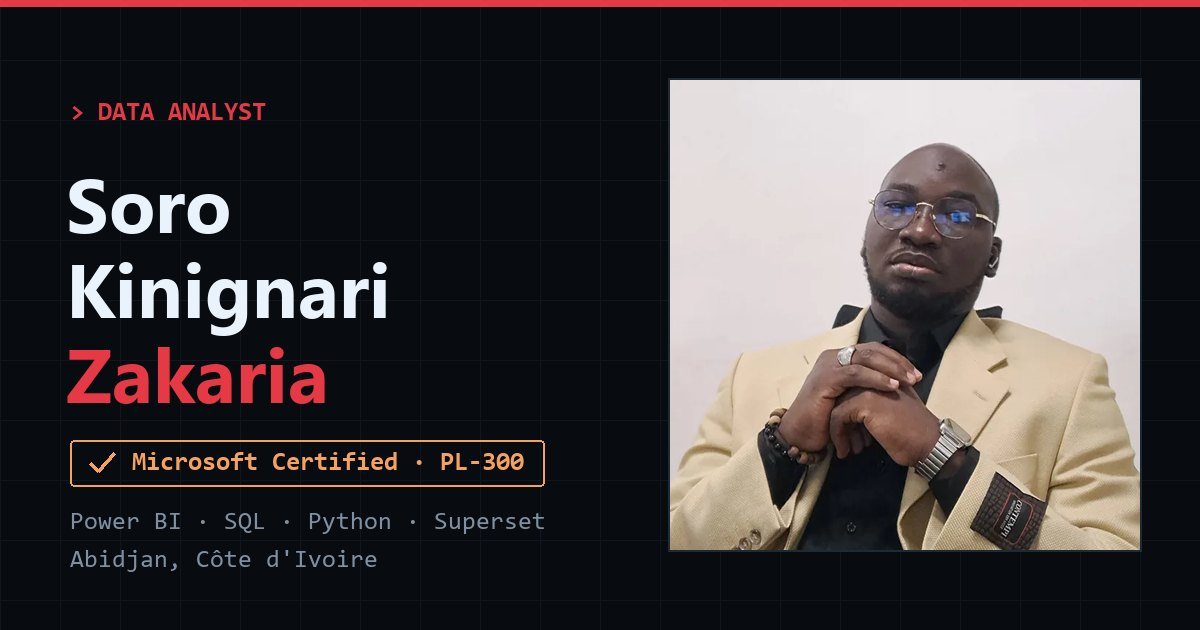
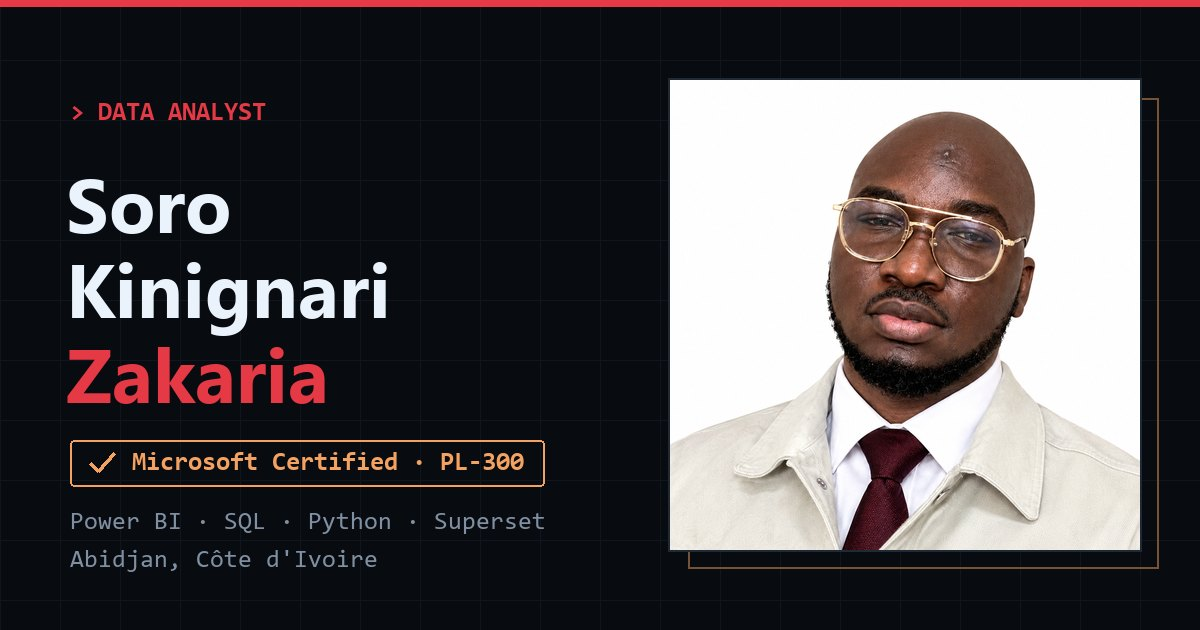
Nouveau portrait et refonte du bloc photo, retrait du lien GitHub
- Nouvelle photo professionnelle (WebP 720 px + 480 px pour mobile)
- Bloc photo repense : portrait 3:4, cadre dore decale, trame de points,
  cartes facon tableau de bord (stack data, poste actuel) a la place des emojis
- Sur tablette et mobile, les cartes se rangent a cote du portrait
- Image de partage mise a jour avec le nouveau portrait
- Lien GitHub retire (contact + JSON-LD)

Changed region(s): [[0.555, 0.1206, 0.9558, 0.9048]]

diff --git a/index.html b/index.html
@@ -56,7 +56,7 @@
     "address": { "@type": "PostalAddress", "addressLocality": "Abidjan", "addressCountry": "CI" },
     "email": "mailto:sorokinignari@gmail.com",
     "knowsAbout": ["Data Analysis", "Power BI", "Apache Superset", "SQL", "Python", "R", "Excel", "DBT", "Dagster", "Économie du développement"],
-    "sameAs": ["https://www.linkedin.com/in/kinignari-zakaria-soro-652789212/", "https://github.com/sparozak"]
+    "sameAs": ["https://www.linkedin.com/in/kinignari-zakaria-soro-652789212/"]
   }
   </script>
 
@@ -319,81 +319,149 @@
       max-width: 620px;
     }
 
-    /* ─── HERO PHOTO ─── */
-    .hero-photo-wrapper {
+    /* ─── HERO : PORTRAIT ─── */
+    .hero-visual {
       position: relative;
       z-index: 2;
       flex-shrink: 0;
-      width: 280px;
-      height: 280px;
+      width: 340px;
+      margin-right: 3rem;
       animation: fadeUp 0.8s 0.4s ease both;
     }
 
-    .hero-photo-wrapper svg.orbit-ring {
+    .hero-figure { position: relative; }
+
+    /* trame de points dorés derrière le portrait */
+    .hero-figure::before {
+      content: '';
       position: absolute;
-      inset: -28px;
-      width: calc(100% + 56px);
-      height: calc(100% + 56px);
-      animation: spin 18s linear infinite;
-      pointer-events: none;
+      top: -36px; left: -36px;
+      width: 160px; height: 160px;
+      background-image: radial-gradient(rgba(244, 162, 97, 0.5) 1.2px, transparent 1.6px);
+      background-size: 14px 14px;
+      mask-image: linear-gradient(135deg, #000 25%, transparent 80%);
+      -webkit-mask-image: linear-gradient(135deg, #000 25%, transparent 80%);
+      z-index: -1;
     }
 
-    .hero-photo-wrapper svg.orbit-ring-2 {
+    /* cadre doré décalé */
+    .hero-figure::after {
+      content: '';
       position: absolute;
-      inset: -14px;
-      width: calc(100% + 28px);
-      height: calc(100% + 28px);
-      animation: spin-rev 28s linear infinite;
-      pointer-events: none;
-      opacity: 0.5;
+      inset: 18px -18px -18px 18px;
+      border: 1px solid rgba(244, 162, 97, 0.5);
+      border-radius: 14px;
+      z-index: -1;
     }
 
-    @keyframes spin { from { transform: rotate(0deg); } to { transform: rotate(360deg); } }
-    @keyframes spin-rev { from { transform: rotate(0deg); } to { transform: rotate(-360deg); } }
-
-    .data-float {
-      position: absolute;
-      display: flex;
-      align-items: center;
-      justify-content: center;
-      width: 38px; height: 38px;
-      background: var(--bg3);
-      border: 1px solid var(--border);
-      border-radius: 6px;
-      font-size: 1.1rem;
-      z-index: 3;
-      pointer-events: none;
-      animation: floatIcon 3s ease-in-out infinite;
-    }
-
-    .data-float:nth-child(1) { top: -18px;    left: 30%;    animation-delay: 0s; }
-    .data-float:nth-child(2) { top: 30%;      right: -18px; animation-delay: 0.6s; }
-    .data-float:nth-child(3) { bottom: -18px; left: 50%;    animation-delay: 1.1s; }
-    .data-float:nth-child(4) { top: 60%;      left: -18px;  animation-delay: 1.7s; }
-    .data-float:nth-child(5) { top: 8%;       right: 10%;   animation-delay: 0.3s; }
-    .data-float:nth-child(6) { bottom: 12%;   right: 5%;    animation-delay: 2s; }
-
-    @keyframes floatIcon {
-      0%, 100% { transform: translateY(0px); }
-      50%       { transform: translateY(-7px); }
-    }
-
-    .hero-photo-frame {
-      width: 100%;
-      height: 100%;
-      border-radius: 8px;
-      overflow: hidden;
-      border: 2px solid var(--border);
+    .hero-portrait {
       position: relative;
-      z-index: 2;
-      background: var(--bg3);
+      aspect-ratio: 3 / 4;
+      border-radius: 14px;
+      overflow: hidden;
+      background: #f2f2f0;
+      box-shadow: 0 0 0 1px var(--border), 0 40px 80px -30px rgba(0, 0, 0, 0.85);
     }
 
-    .hero-photo-frame img {
+    .hero-portrait img {
       width: 100%;
       height: 100%;
       object-fit: cover;
+      object-position: center top;
       display: block;
+    }
+
+    /* léger fondu en bas + liseré aux couleurs du site */
+    .hero-portrait::after {
+      content: '';
+      position: absolute;
+      inset: 0;
+      background: linear-gradient(180deg, transparent 65%, rgba(8, 11, 16, 0.45) 100%);
+      pointer-events: none;
+    }
+
+    .hero-portrait::before {
+      content: '';
+      position: absolute;
+      left: 0; right: 0; bottom: 0;
+      height: 3px;
+      background: linear-gradient(90deg, var(--accent), var(--gold));
+      z-index: 1;
+    }
+
+    /* cartes façon tableau de bord */
+    .hero-chip {
+      position: absolute;
+      z-index: 3;
+      display: flex;
+      align-items: center;
+      gap: 0.75rem;
+      padding: 0.75rem 1.1rem 0.75rem 0.75rem;
+      background: rgba(14, 19, 24, 0.92);
+      backdrop-filter: blur(10px);
+      -webkit-backdrop-filter: blur(10px);
+      border: 1px solid var(--border);
+      border-radius: 10px;
+      box-shadow: 0 18px 40px -12px rgba(0, 0, 0, 0.75);
+      white-space: nowrap;
+      animation: chipFloat 6s ease-in-out infinite;
+    }
+
+    .hero-chip-stack { top: 58%; left: -128px; }
+    .hero-chip-role  { bottom: 6%; right: -64px; animation-delay: -3s; }
+
+    @keyframes chipFloat {
+      0%, 100% { transform: translateY(0); }
+      50%       { transform: translateY(-8px); }
+    }
+
+    .chip-icon {
+      display: grid;
+      place-items: center;
+      width: 38px;
+      height: 38px;
+      border-radius: 8px;
+      flex-shrink: 0;
+      color: var(--accent2);
+      background: rgba(230, 57, 70, 0.12);
+      border: 1px solid rgba(230, 57, 70, 0.3);
+    }
+
+    .chip-icon-gold {
+      color: var(--gold);
+      background: rgba(244, 162, 97, 0.12);
+      border-color: rgba(244, 162, 97, 0.35);
+    }
+
+    .chip-bars rect {
+      fill: currentColor;
+      transform-box: fill-box;
+      transform-origin: bottom;
+      animation: barGrow 0.9s cubic-bezier(0.3, 0.7, 0.2, 1) both;
+    }
+
+    .chip-bars rect:nth-child(1) { animation-delay: 0.9s; }
+    .chip-bars rect:nth-child(2) { animation-delay: 1.0s; }
+    .chip-bars rect:nth-child(3) { animation-delay: 1.1s; }
+    .chip-bars rect:nth-child(4) { animation-delay: 1.2s; fill: var(--gold); }
+
+    @keyframes barGrow { from { transform: scaleY(0.1); } to { transform: scaleY(1); } }
+
+    .chip-label {
+      display: block;
+      font-family: var(--mono);
+      font-size: 0.6rem;
+      letter-spacing: 0.14em;
+      text-transform: uppercase;
+      color: var(--text-dim);
+    }
+
+    .chip-value {
+      display: block;
+      margin-top: 0.15rem;
+      font-size: 0.86rem;
+      font-weight: 700;
+      color: var(--white);
     }
 
     .hero-tag {
@@ -430,6 +498,10 @@
       color: var(--white);
       letter-spacing: -0.02em;
       animation: fadeUp 0.6s 0.1s ease both;
+    }
+
+    @media (min-width: 1201px) {
+      h1 { font-size: clamp(3rem, min(8vw, calc((100vw - 640px) / 6.9)), 7rem); }
     }
 
     h1 span { color: var(--accent); }
@@ -1435,34 +1507,57 @@
       }
     }
 
-    @media (max-width: 900px) {
-      :root { --gutter: 1.5rem; }
-
-      nav { padding-top: 0.9rem; padding-bottom: 0.9rem; }
-      section { padding-top: 5rem; padding-bottom: 5rem; }
-
+    @media (max-width: 1200px) {
       #hero {
         flex-direction: column;
         align-items: flex-start;
         justify-content: center;
-        gap: 2.5rem;
-        padding-top: 7rem;
+        gap: 2.75rem;
+        padding-top: 7.5rem;
         padding-bottom: 4rem;
       }
 
       .hero-content { flex: none; }
 
-      .hero-photo-wrapper {
+      .hero-visual {
         order: -1;
-        width: 168px;
-        height: 168px;
-        margin-left: 14px;
+        width: 100%;
+        margin: 0;
+        display: grid;
+        grid-template-columns: 220px minmax(0, 1fr);
+        align-items: center;
+        column-gap: 3rem;
       }
 
-      .hero-photo-wrapper .data-float,
-      .hero-photo-wrapper svg.orbit-ring { display: none; }
+      .hero-chips { display: flex; flex-direction: column; align-items: flex-start; gap: 0.9rem; }
+
+      .hero-chip {
+        position: static;
+        white-space: normal;
+        max-width: 100%;
+        animation: none;
+      }
 
       .hero-scroll { display: none; }
+    }
+
+    @media (max-width: 600px) {
+      .hero-visual { grid-template-columns: 128px minmax(0, 1fr); column-gap: 1.75rem; }
+      .hero-figure::before { top: -20px; left: -20px; width: 96px; height: 96px; background-size: 11px 11px; }
+      .hero-figure::after { inset: 10px -10px -10px 10px; border-radius: 12px; }
+      .hero-portrait { border-radius: 12px; }
+      .hero-chip { gap: 0.6rem; padding: 0.55rem 0.75rem 0.55rem 0.55rem; }
+      .chip-icon { width: 30px; height: 30px; border-radius: 6px; }
+      .chip-icon svg { width: 15px; height: 15px; }
+      .chip-label { font-size: 0.55rem; letter-spacing: 0.1em; }
+      .chip-value { font-size: 0.74rem; line-height: 1.3; }
+    }
+
+    @media (max-width: 900px) {
+      :root { --gutter: 1.5rem; }
+
+      nav { padding-top: 0.9rem; padding-bottom: 0.9rem; }
+      section { padding-top: 5rem; padding-bottom: 5rem; }
 
       .about-grid, .contact-grid, .timeline-grid { grid-template-columns: 1fr; gap: 3rem; }
       .cv-inner { padding: 2.5rem 1.5rem; }
@@ -1553,43 +1648,39 @@
         </div>
       </div>
 
-      <div class="hero-photo-wrapper">
-        <div class="data-float" aria-hidden="true">🗄</div>
-        <div class="data-float" aria-hidden="true">📊</div>
-        <div class="data-float" aria-hidden="true">🐍</div>
-        <div class="data-float" aria-hidden="true">📈</div>
-        <div class="data-float" aria-hidden="true">🤖</div>
-        <div class="data-float" aria-hidden="true">📋</div>
+      <div class="hero-visual">
+        <figure class="hero-figure">
+          <div class="hero-portrait">
+            <img src="assets/img/photo.webp" srcset="assets/img/photo-480.webp 480w, assets/img/photo.webp 720w"
+              sizes="(max-width: 600px) 128px, (max-width: 1200px) 220px, 340px" width="720" height="960"
+              alt="Portrait de Soro Kinignari Zakaria" fetchpriority="high" decoding="async">
+          </div>
+        </figure>
 
-        <svg class="orbit-ring" viewBox="0 0 336 336" fill="none" xmlns="http://www.w3.org/2000/svg" aria-hidden="true">
-          <circle cx="168" cy="168" r="165" stroke="url(#ringGrad1)" stroke-width="1.2" stroke-dasharray="8 14" stroke-linecap="round"/>
-          <polygon points="168,1 172,6 168,11 164,6" fill="#e63946" opacity="0.8"/>
-          <polygon points="333,168 338,172 333,176 328,172" fill="#e63946" opacity="0.5"/>
-          <polygon points="168,325 172,330 168,335 164,330" fill="#e63946" opacity="0.8"/>
-          <polygon points="1,168 6,172 1,176 -4,172" fill="#e63946" opacity="0.5"/>
-          <defs>
-            <linearGradient id="ringGrad1" x1="0" y1="0" x2="336" y2="336" gradientUnits="userSpaceOnUse">
-              <stop offset="0%" stop-color="#e63946" stop-opacity="0.9"/>
-              <stop offset="50%" stop-color="#ff6b6b" stop-opacity="0.3"/>
-              <stop offset="100%" stop-color="#e63946" stop-opacity="0.0"/>
-            </linearGradient>
-          </defs>
-        </svg>
+        <div class="hero-chips">
+          <div class="hero-chip hero-chip-stack">
+            <span class="chip-icon" aria-hidden="true">
+              <svg class="chip-bars" width="20" height="18" viewBox="0 0 20 18">
+                <rect x="0.5" y="10" width="3.4" height="8" rx="1"/>
+                <rect x="5.7" y="6" width="3.4" height="12" rx="1"/>
+                <rect x="10.9" y="8.5" width="3.4" height="9.5" rx="1"/>
+                <rect x="16.1" y="1.5" width="3.4" height="16.5" rx="1"/>
+              </svg>
+            </span>
+            <span><span class="chip-label">Stack data</span><span class="chip-value">Power BI · SQL · Python</span></span>
+          </div>
 
-        <svg class="orbit-ring-2" viewBox="0 0 308 308" fill="none" xmlns="http://www.w3.org/2000/svg" aria-hidden="true">
-          <circle cx="154" cy="154" r="151" stroke="url(#ringGrad2)" stroke-width="1" stroke-dasharray="4 20" stroke-linecap="round"/>
-          <defs>
-            <linearGradient id="ringGrad2" x1="308" y1="0" x2="0" y2="308" gradientUnits="userSpaceOnUse">
-              <stop offset="0%" stop-color="#f4a261" stop-opacity="0.7"/>
-              <stop offset="60%" stop-color="#f4a261" stop-opacity="0.1"/>
-              <stop offset="100%" stop-color="#f4a261" stop-opacity="0.0"/>
-            </linearGradient>
-          </defs>
-        </svg>
-
-        <div class="hero-photo-frame">
-          <img src="assets/img/photo.webp" width="640" height="640" alt="Portrait de Soro Kinignari Zakaria"
-            fetchpriority="high" decoding="async">
+          <div class="hero-chip hero-chip-role">
+            <span class="chip-icon chip-icon-gold" aria-hidden="true">
+              <svg width="18" height="18" viewBox="0 0 24 24" fill="none" stroke="currentColor" stroke-width="1.8"
+                stroke-linecap="round" stroke-linejoin="round">
+                <rect x="3" y="7" width="18" height="13" rx="2"/>
+                <path d="M8 7V5a2 2 0 0 1 2-2h4a2 2 0 0 1 2 2v2"/>
+                <path d="M3 12.5h18"/>
+              </svg>
+            </span>
+            <span><span class="chip-label">Poste actuel</span><span class="chip-value">Data Analyst · SaH Analytics</span></span>
+          </div>
         </div>
       </div>
 
@@ -2159,12 +2250,6 @@
               <a href="tel:+2250757085773" class="contact-link">
                 <span class="contact-link-icon" aria-hidden="true">☎</span>
                 +225 07 57 08 57 73
-              </a>
-            </li>
-            <li>
-              <a href="https://github.com/sparozak" class="contact-link" target="_blank" rel="noopener">
-                <span class="contact-link-icon" aria-hidden="true">{}</span>
-                github.com/sparozak
               </a>
             </li>
           </ul>
